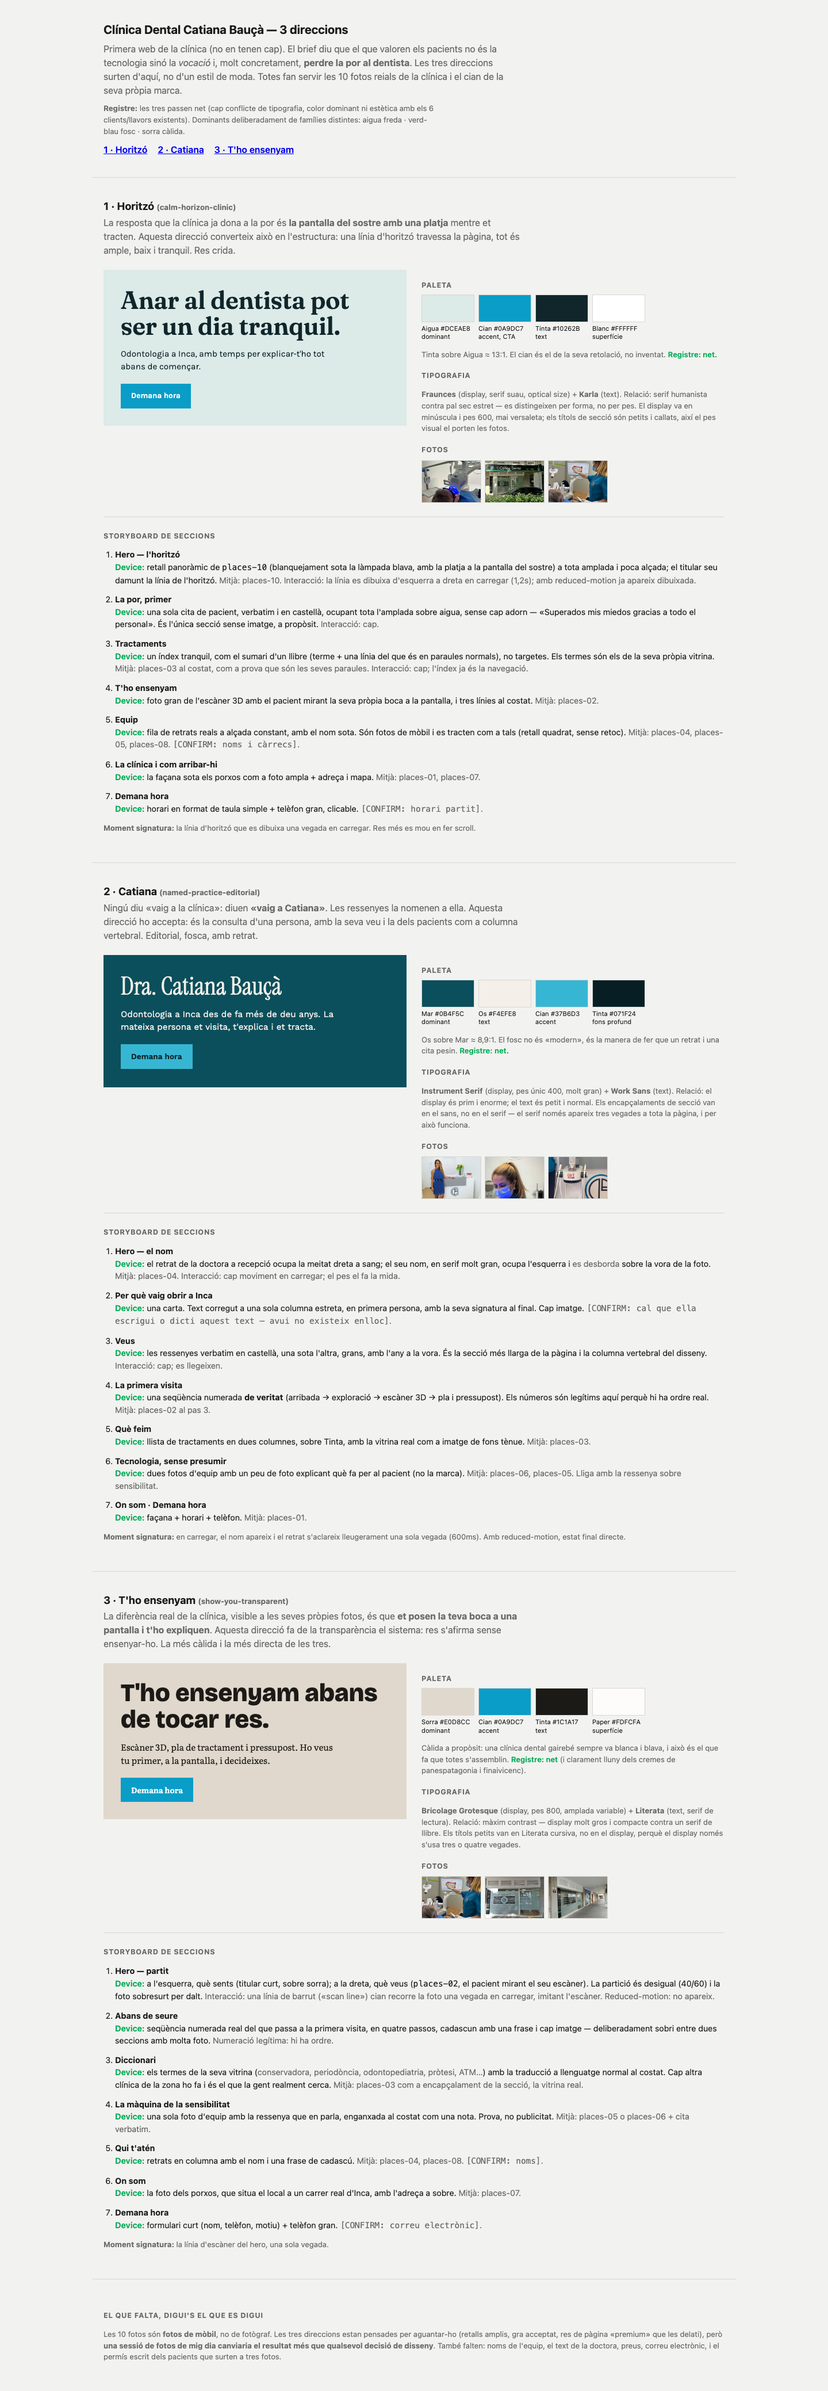
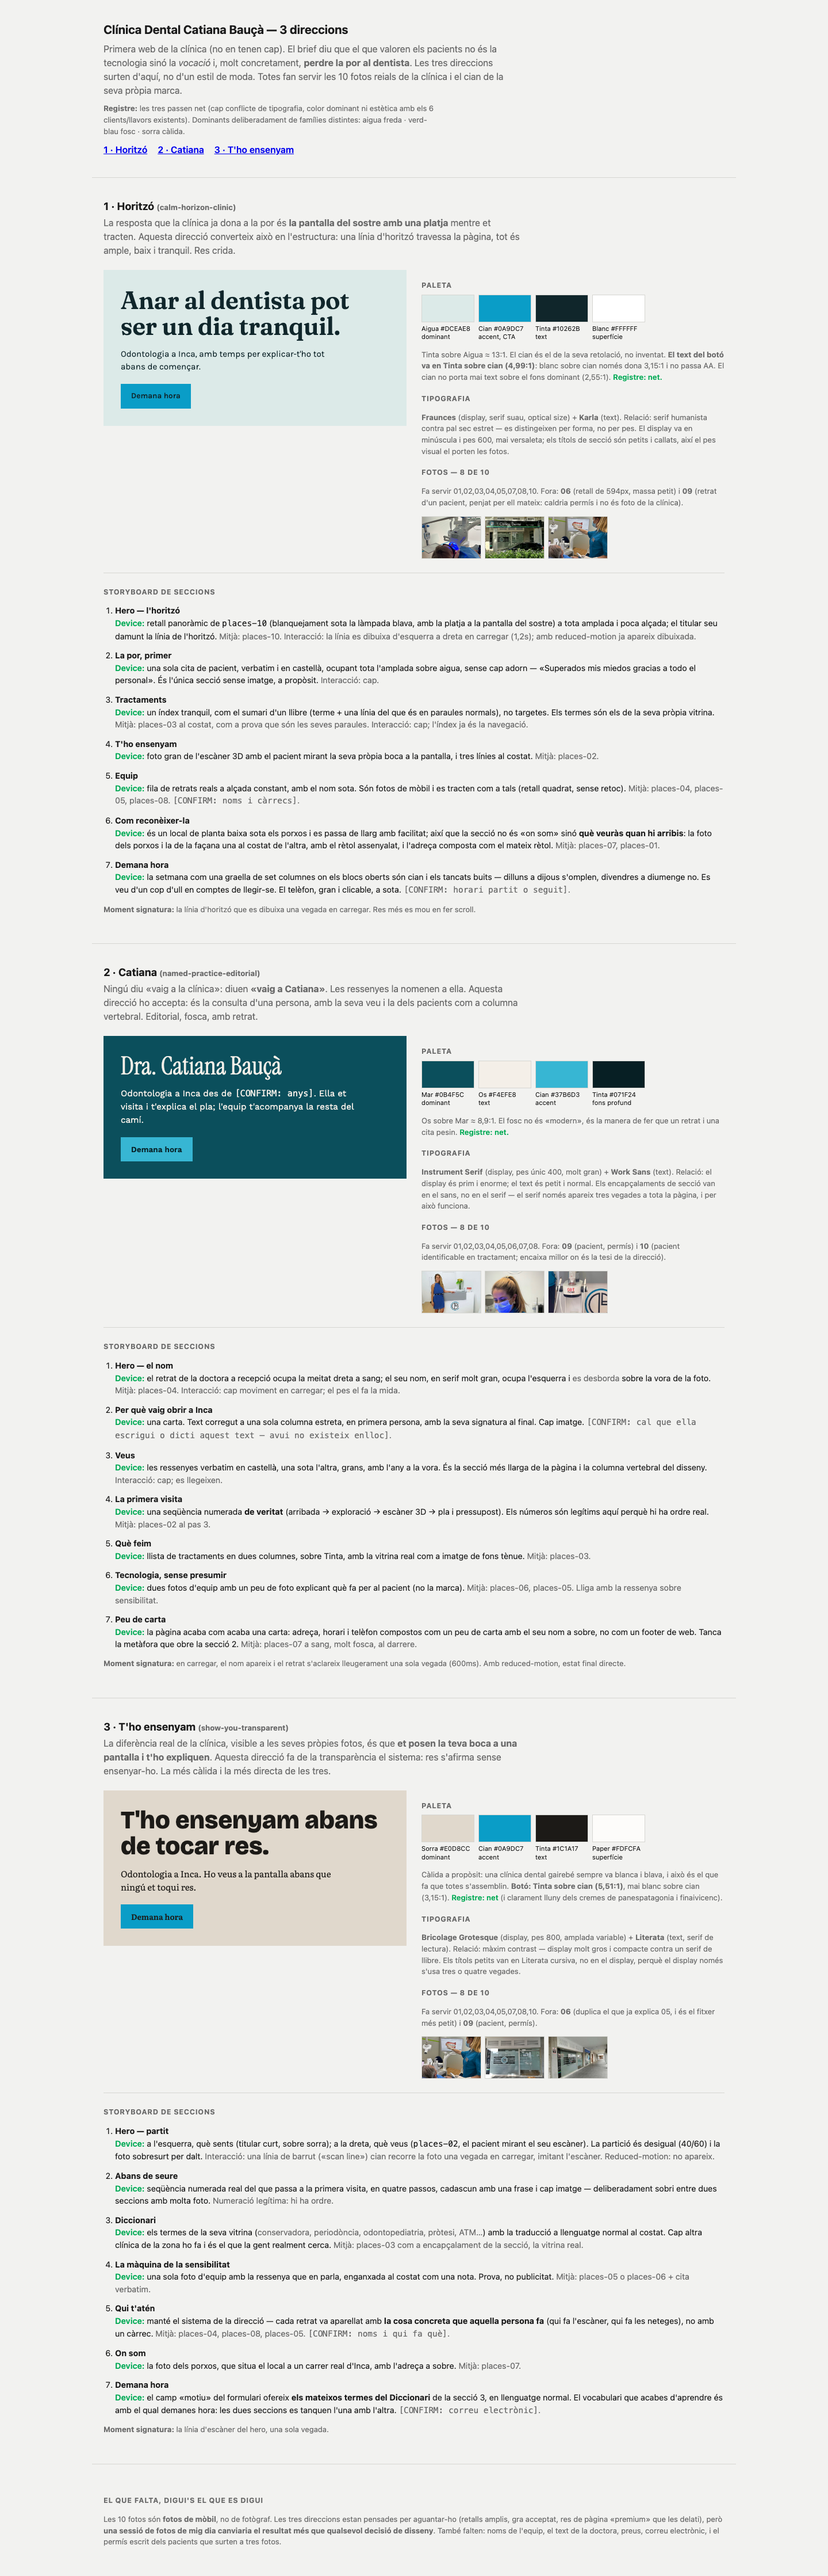
Moodboard round 2: fix CTA contrast, remove invented tenure, give closing sections devices; correct asset index

diff --git a/.studio/moodboard/directions.html b/.studio/moodboard/directions.html
@@ -48,7 +48,7 @@ h4{margin:18px 0 6px;font-size:.78rem;text-transform:uppercase;letter-spacing:.0
 </header>
 
 <!-- ───────────── 1 ───────────── -->
-<article class="direction" id="d1" style="--d-bg:#DCEAE8;--d-fg:#10262B;--d-accent:#0A9DC7;--d-display:'Fraunces',serif;--d-body:'Karla',sans-serif">
+<article class="direction" id="d1" style="--d-bg:#DCEAE8;--d-fg:#10262B;--d-accent:#0A9DC7;--d-ctafg:#10262B;--d-display:'Fraunces',serif;--d-body:'Karla',sans-serif">
   <h2>1 · Horitzó <small class="meta">(calm-horizon-clinic)</small></h2>
   <p class="pitch">La resposta que la clínica ja dona a la por és <strong>la pantalla del sostre amb una platja</strong> mentre et tracten. Aquesta direcció converteix això en l'estructura: una línia d'horitzó travessa la pàgina, tot és ample, baix i tranquil. Res crida.</p>
   <div class="cols">
@@ -65,10 +65,11 @@ h4{margin:18px 0 6px;font-size:.78rem;text-transform:uppercase;letter-spacing:.0
         <div class="swatch"><i style="background:#10262B"></i>Tinta #10262B<br>text</div>
         <div class="swatch"><i style="background:#FFFFFF"></i>Blanc #FFFFFF<br>superfície</div>
       </div>
-      <p class="meta">Tinta sobre Aigua ≈ 13:1. El cian és el de la seva retolació, no inventat. <span class="ok">Registre: net.</span></p>
+      <p class="meta">Tinta sobre Aigua ≈ 13:1. El cian és el de la seva retolació, no inventat. <strong>El text del botó va en Tinta sobre cian (4,99:1)</strong>: blanc sobre cian només dona 3,15:1 i no passa AA. El cian no porta mai text sobre el fons dominant (2,55:1). <span class="ok">Registre: net.</span></p>
       <h4>Tipografia</h4>
       <p class="meta"><strong>Fraunces</strong> (display, serif suau, optical size) + <strong>Karla</strong> (text). Relació: serif humanista contra pal sec estret — es distingeixen per forma, no per pes. El display va en minúscula i pes 600, mai versaleta; els títols de secció són petits i callats, així el pes visual el porten les fotos.</p>
-      <h4>Fotos</h4>
+      <h4>Fotos — 8 de 10</h4>
+      <p class="meta">Fa servir 01,02,03,04,05,07,08,10. Fora: <strong>06</strong> (retall de 594px, massa petit) i <strong>09</strong> (retrat d'un pacient, penjat per ell mateix: caldria permís i no és foto de la clínica).</p>
       <div class="thumbs"><img src="../sources/images/places-10.jpg" alt=""><img src="../sources/images/places-01.jpg" alt=""><img src="../sources/images/places-02.jpg" alt=""></div>
     </section>
   </div>
@@ -80,8 +81,8 @@ h4{margin:18px 0 6px;font-size:.78rem;text-transform:uppercase;letter-spacing:.0
       <li><b>Tractaments</b> <span class="dev">Device:</span> un índex tranquil, com el sumari d'un llibre (terme + una línia del que és en paraules normals), no targetes. Els termes són els de la seva pròpia vitrina. <em>Mitjà: places-03 al costat, com a prova que són les seves paraules. Interacció: cap; l'índex ja és la navegació.</em></li>
       <li><b>T'ho ensenyam</b> <span class="dev">Device:</span> foto gran de l'escàner 3D amb el pacient mirant la seva pròpia boca a la pantalla, i tres línies al costat. <em>Mitjà: places-02.</em></li>
       <li><b>Equip</b> <span class="dev">Device:</span> fila de retrats reals a alçada constant, amb el nom sota. Són fotos de mòbil i es tracten com a tals (retall quadrat, sense retoc). <em>Mitjà: places-04, places-05, places-08. <code>[CONFIRM: noms i càrrecs]</code>.</em></li>
-      <li><b>La clínica i com arribar-hi</b> <span class="dev">Device:</span> la façana sota els porxos com a foto ampla + adreça i mapa. <em>Mitjà: places-01, places-07.</em></li>
-      <li><b>Demana hora</b> <span class="dev">Device:</span> horari en format de taula simple + telèfon gran, clicable. <em><code>[CONFIRM: horari partit]</code>.</em></li>
+      <li><b>Com reconèixer-la</b> <span class="dev">Device:</span> és un local de planta baixa sota els porxos i es passa de llarg amb facilitat; així que la secció no és «on som» sinó <strong>què veuràs quan hi arribis</strong>: la foto dels porxos i la de la façana una al costat de l'altra, amb el rètol assenyalat, i l'adreça composta com el mateix rètol. <em>Mitjà: places-07, places-01.</em></li>
+      <li><b>Demana hora</b> <span class="dev">Device:</span> la setmana com una graella de set columnes on els blocs oberts són cian i els tancats buits — dilluns a dijous s'omplen, divendres a diumenge no. Es veu d'un cop d'ull en comptes de llegir-se. El telèfon, gran i clicable, a sota. <em><code>[CONFIRM: horari partit o seguit]</code>.</em></li>
     </ol>
     <p class="meta"><strong>Moment signatura:</strong> la línia d'horitzó que es dibuixa una vegada en carregar. Res més es mou en fer scroll.</p>
   </div>
@@ -94,7 +95,7 @@ h4{margin:18px 0 6px;font-size:.78rem;text-transform:uppercase;letter-spacing:.0
   <div class="cols">
     <section class="specimen">
       <h3>Dra. Catiana Bauçà</h3>
-      <p>Odontologia a Inca des de fa més de deu anys. La mateixa persona et visita, t'explica i et tracta.</p>
+      <p>Odontologia a Inca des de <code>[CONFIRM: anys]</code>. Ella et visita i t'explica el pla; l'equip t'acompanya la resta del camí.</p>
       <span class="cta">Demana hora</span>
     </section>
     <section>
@@ -108,7 +109,8 @@ h4{margin:18px 0 6px;font-size:.78rem;text-transform:uppercase;letter-spacing:.0
       <p class="meta">Os sobre Mar ≈ 8,9:1. El fosc no és «modern», és la manera de fer que un retrat i una cita pesin. <span class="ok">Registre: net.</span></p>
       <h4>Tipografia</h4>
       <p class="meta"><strong>Instrument Serif</strong> (display, pes únic 400, molt gran) + <strong>Work Sans</strong> (text). Relació: el display és prim i enorme; el text és petit i normal. Els encapçalaments de secció van en el sans, no en el serif — el serif només apareix tres vegades a tota la pàgina, i per això funciona.</p>
-      <h4>Fotos</h4>
+      <h4>Fotos — 8 de 10</h4>
+      <p class="meta">Fa servir 01,02,03,04,05,06,07,08. Fora: <strong>09</strong> (pacient, permís) i <strong>10</strong> (pacient identificable en tractament; encaixa millor on és la tesi de la direcció).</p>
       <div class="thumbs"><img src="../sources/images/places-04.jpg" alt=""><img src="../sources/images/places-08.jpg" alt=""><img src="../sources/images/places-06.jpg" alt=""></div>
     </section>
   </div>
@@ -121,20 +123,20 @@ h4{margin:18px 0 6px;font-size:.78rem;text-transform:uppercase;letter-spacing:.0
       <li><b>La primera visita</b> <span class="dev">Device:</span> una seqüència numerada <strong>de veritat</strong> (arribada → exploració → escàner 3D → pla i pressupost). Els números són legítims aquí perquè hi ha ordre real. <em>Mitjà: places-02 al pas 3.</em></li>
       <li><b>Què feim</b> <span class="dev">Device:</span> llista de tractaments en dues columnes, sobre Tinta, amb la vitrina real com a imatge de fons tènue. <em>Mitjà: places-03.</em></li>
       <li><b>Tecnologia, sense presumir</b> <span class="dev">Device:</span> dues fotos d'equip amb un peu de foto explicant què fa per al pacient (no la marca). <em>Mitjà: places-06, places-05. Lliga amb la ressenya sobre sensibilitat.</em></li>
-      <li><b>On som · Demana hora</b> <span class="dev">Device:</span> façana + horari + telèfon. <em>Mitjà: places-01.</em></li>
+      <li><b>Peu de carta</b> <span class="dev">Device:</span> la pàgina acaba com acaba una carta: adreça, horari i telèfon compostos com un peu de carta amb el seu nom a sobre, no com un footer de web. Tanca la metàfora que obre la secció 2. <em>Mitjà: places-07 a sang, molt fosca, al darrere.</em></li>
     </ol>
     <p class="meta"><strong>Moment signatura:</strong> en carregar, el nom apareix i el retrat s'aclareix lleugerament una sola vegada (600ms). Amb reduced-motion, estat final directe.</p>
   </div>
 </article>
 
 <!-- ───────────── 3 ───────────── -->
-<article class="direction" id="d3" style="--d-bg:#E0D8CC;--d-fg:#1C1A17;--d-accent:#0A9DC7;--d-display:'Bricolage Grotesque',sans-serif;--d-body:'Literata',serif;--d-dw:800">
+<article class="direction" id="d3" style="--d-bg:#E0D8CC;--d-fg:#1C1A17;--d-accent:#0A9DC7;--d-ctafg:#1C1A17;--d-display:'Bricolage Grotesque',sans-serif;--d-body:'Literata',serif;--d-dw:800">
   <h2>3 · T'ho ensenyam <small class="meta">(show-you-transparent)</small></h2>
   <p class="pitch">La diferència real de la clínica, visible a les seves pròpies fotos, és que <strong>et posen la teva boca a una pantalla i t'ho expliquen</strong>. Aquesta direcció fa de la transparència el sistema: res s'afirma sense ensenyar-ho. La més càlida i la més directa de les tres.</p>
   <div class="cols">
     <section class="specimen">
       <h3>T'ho ensenyam abans de tocar res.</h3>
-      <p>Escàner 3D, pla de tractament i pressupost. Ho veus tu primer, a la pantalla, i decideixes.</p>
+      <p>Odontologia a Inca. Ho veus a la pantalla abans que ningú et toqui res.</p>
       <span class="cta">Demana hora</span>
     </section>
     <section>
@@ -145,10 +147,11 @@ h4{margin:18px 0 6px;font-size:.78rem;text-transform:uppercase;letter-spacing:.0
         <div class="swatch"><i style="background:#1C1A17"></i>Tinta #1C1A17<br>text</div>
         <div class="swatch"><i style="background:#FDFCFA"></i>Paper #FDFCFA<br>superfície</div>
       </div>
-      <p class="meta">Càlida a propòsit: una clínica dental gairebé sempre va blanca i blava, i això és el que fa que totes s'assemblin. <span class="ok">Registre: net</span> (i clarament lluny dels cremes de panespatagonia i finaivicenc).</p>
+      <p class="meta">Càlida a propòsit: una clínica dental gairebé sempre va blanca i blava, i això és el que fa que totes s'assemblin. <strong>Botó: Tinta sobre cian (5,51:1)</strong>, mai blanc sobre cian (3,15:1). <span class="ok">Registre: net</span> (i clarament lluny dels cremes de panespatagonia i finaivicenc).</p>
       <h4>Tipografia</h4>
       <p class="meta"><strong>Bricolage Grotesque</strong> (display, pes 800, amplada variable) + <strong>Literata</strong> (text, serif de lectura). Relació: màxim contrast — display molt gros i compacte contra un serif de llibre. Els títols petits van en Literata cursiva, no en el display, perquè el display només s'usa tres o quatre vegades.</p>
-      <h4>Fotos</h4>
+      <h4>Fotos — 8 de 10</h4>
+      <p class="meta">Fa servir 01,02,03,04,05,07,08,10. Fora: <strong>06</strong> (duplica el que ja explica 05, i és el fitxer més petit) i <strong>09</strong> (pacient, permís).</p>
       <div class="thumbs"><img src="../sources/images/places-02.jpg" alt=""><img src="../sources/images/places-03.jpg" alt=""><img src="../sources/images/places-07.jpg" alt=""></div>
     </section>
   </div>
@@ -159,9 +162,9 @@ h4{margin:18px 0 6px;font-size:.78rem;text-transform:uppercase;letter-spacing:.0
       <li><b>Abans de seure</b> <span class="dev">Device:</span> seqüència numerada real del que passa a la primera visita, en quatre passos, cadascun amb una frase i cap imatge — deliberadament sobri entre dues seccions amb molta foto. <em>Numeració legítima: hi ha ordre.</em></li>
       <li><b>Diccionari</b> <span class="dev">Device:</span> els termes de la seva vitrina (<em>conservadora, periodòncia, odontopediatria, pròtesi, ATM…</em>) amb la traducció a llenguatge normal al costat. Cap altra clínica de la zona ho fa i és el que la gent realment cerca. <em>Mitjà: places-03 com a encapçalament de la secció, la vitrina real.</em></li>
       <li><b>La màquina de la sensibilitat</b> <span class="dev">Device:</span> una sola foto d'equip amb la ressenya que en parla, enganxada al costat com una nota. Prova, no publicitat. <em>Mitjà: places-05 o places-06 + cita verbatim.</em></li>
-      <li><b>Qui t'atén</b> <span class="dev">Device:</span> retrats en columna amb el nom i una frase de cadascú. <em>Mitjà: places-04, places-08. <code>[CONFIRM: noms]</code>.</em></li>
+      <li><b>Qui t'atén</b> <span class="dev">Device:</span> manté el sistema de la direcció — cada retrat va aparellat amb <strong>la cosa concreta que aquella persona fa</strong> (qui fa l'escàner, qui fa les neteges), no amb un càrrec. <em>Mitjà: places-04, places-08, places-05. <code>[CONFIRM: noms i qui fa què]</code>.</em></li>
       <li><b>On som</b> <span class="dev">Device:</span> la foto dels porxos, que situa el local a un carrer real d'Inca, amb l'adreça a sobre. <em>Mitjà: places-07.</em></li>
-      <li><b>Demana hora</b> <span class="dev">Device:</span> formulari curt (nom, telèfon, motiu) + telèfon gran. <em><code>[CONFIRM: correu electrònic]</code>.</em></li>
+      <li><b>Demana hora</b> <span class="dev">Device:</span> el camp «motiu» del formulari ofereix <strong>els mateixos termes del Diccionari</strong> de la secció 3, en llenguatge normal. El vocabulari que acabes d'aprendre és amb el qual demanes hora: les dues seccions es tanquen l'una amb l'altra. <em><code>[CONFIRM: correu electrònic]</code>.</em></li>
     </ol>
     <p class="meta"><strong>Moment signatura:</strong> la línia d'escàner del hero, una sola vegada.</p>
   </div>
